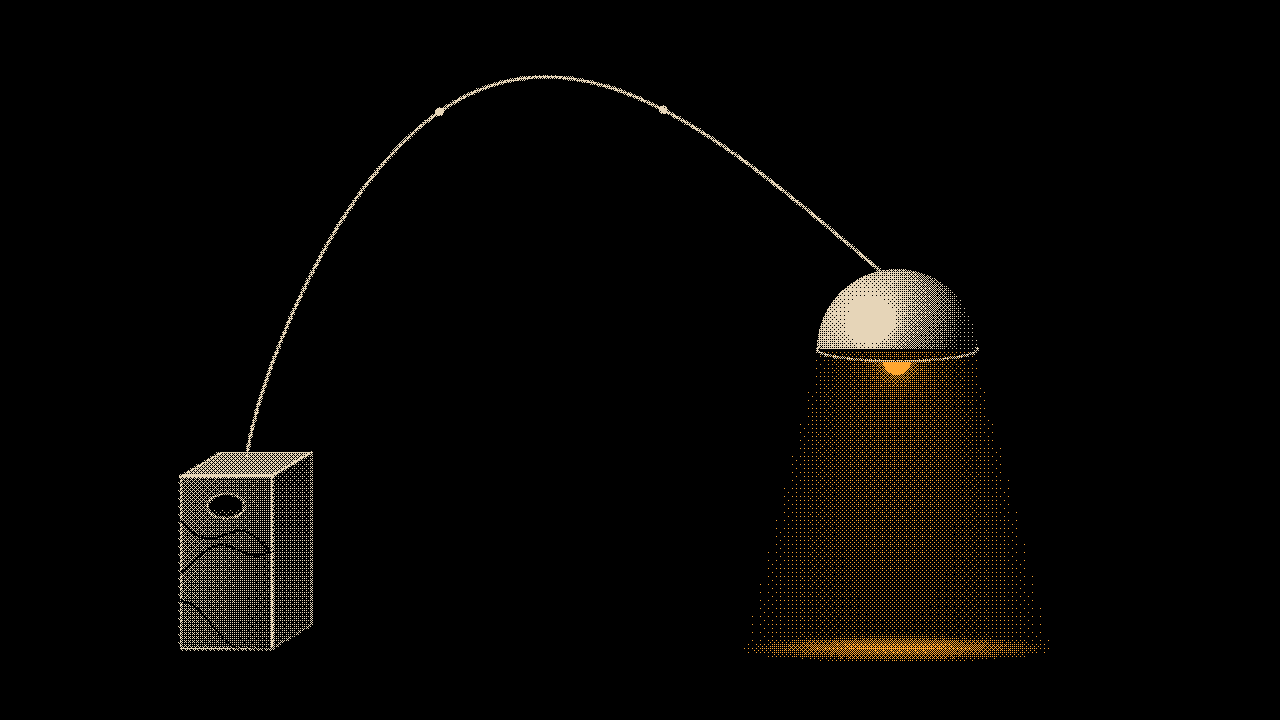
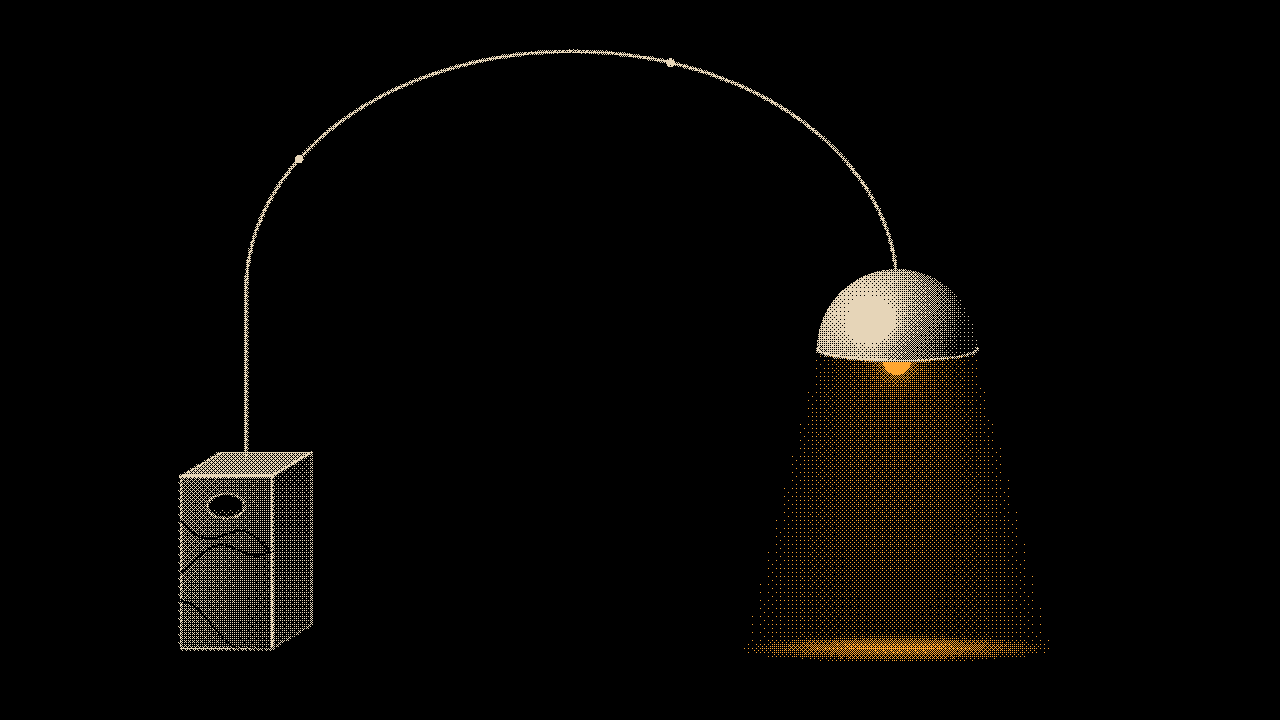
Starbursts, Arco lamp

diff --git a/README.md b/README.md
@@ -36,7 +36,7 @@ Starbursts, Sputniks and orbits in fine dotted strokes.
 ![Sputnik: Atom, amber nucleus](screenshots/walls/2020-sputnik.png)
 2020 · Sputnik
 
-![Starbursts: Atomic-age starbursts](screenshots/walls/2030-starbursts.png)
+![Starbursts: Two big bursts, one-dot rays](screenshots/walls/2030-starbursts.png)
 2030 · Starbursts
 
 ![Sunburst: A plain face ringed by rays](screenshots/walls/2040-sunburstclock.png)
@@ -219,7 +219,7 @@ Hi-fi gear and atomic-age lamps, lit like solid things.
 ![Globe lamp: Opal pendant, lit](screenshots/walls/1120-globelampdots.png)
 1120 · Globe lamp
 
-![Arc lamp: Marble base, steel arc](screenshots/walls/1130-arclamp.png)
+![Arc lamp: The Arco: marble block, steel arch](screenshots/walls/1130-arclamp.png)
 1130 · Arc lamp
 
 ![Desk fan: Chrome cage and blades](screenshots/walls/1140-deskfan.png)
